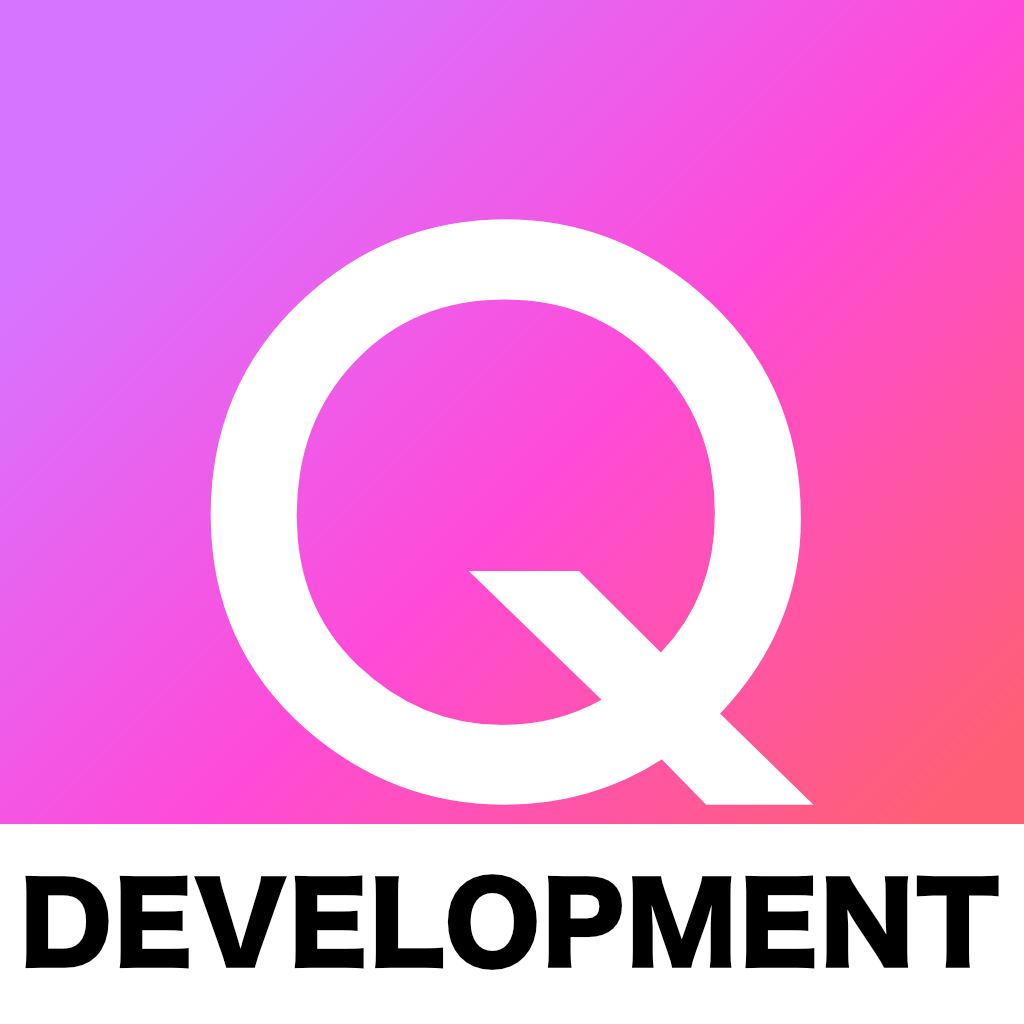
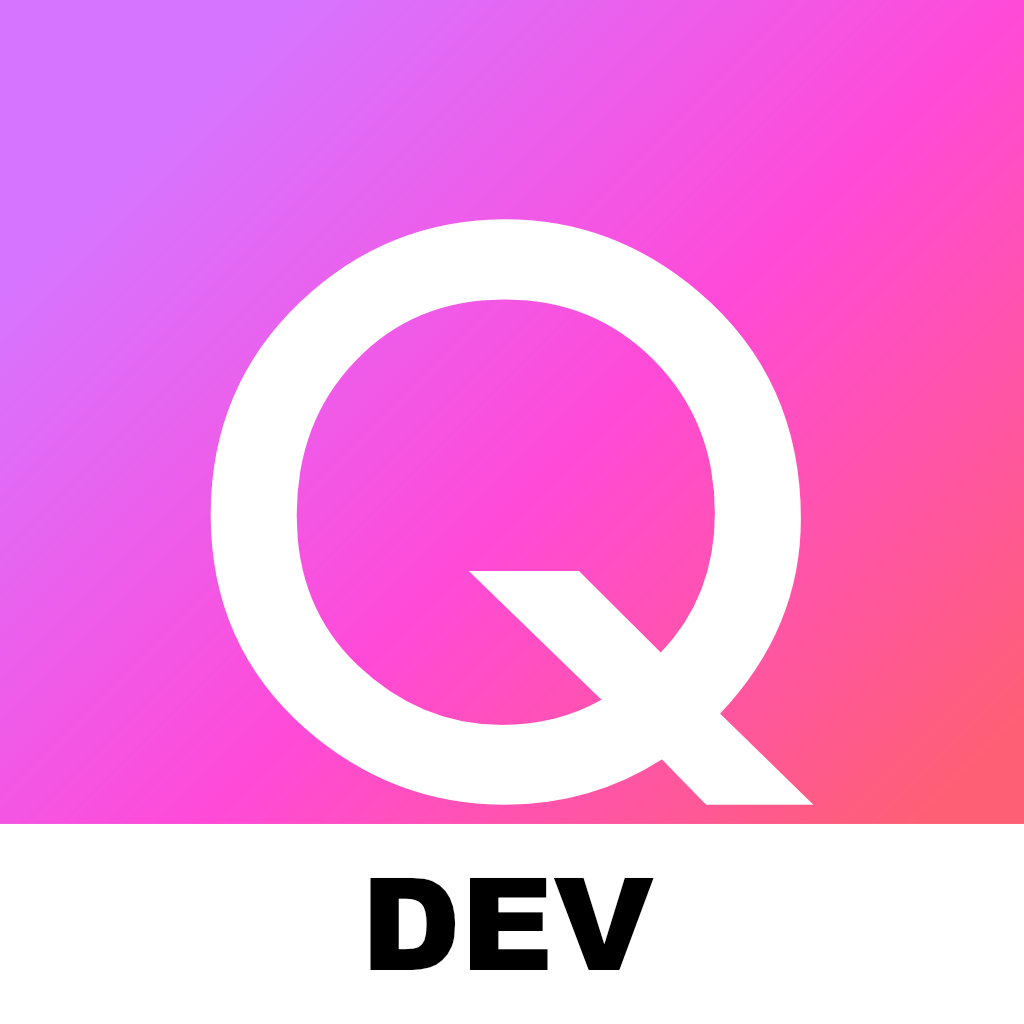
update dev image and add ClearButton Mode

Changed region(s): [[0.0, 0.8438, 1.0, 0.9688]]

diff --git a/apps/mobile/src/screens/TaskScreen.tsx b/apps/mobile/src/screens/TaskScreen.tsx
@@ -93,8 +93,9 @@ export default function TaskScreen() {
               colorScheme === 'dark' && tw`bg-neutral-700 text-white`,
             ]}
             ref={inputRef}
-            placeholder={'Write a task'}
             value={task}
+            placeholder={'Write a task'}
+            clearButtonMode='while-editing'
             onChangeText={(text) => setTask(text)}
           />
           {updateIcon ? (
